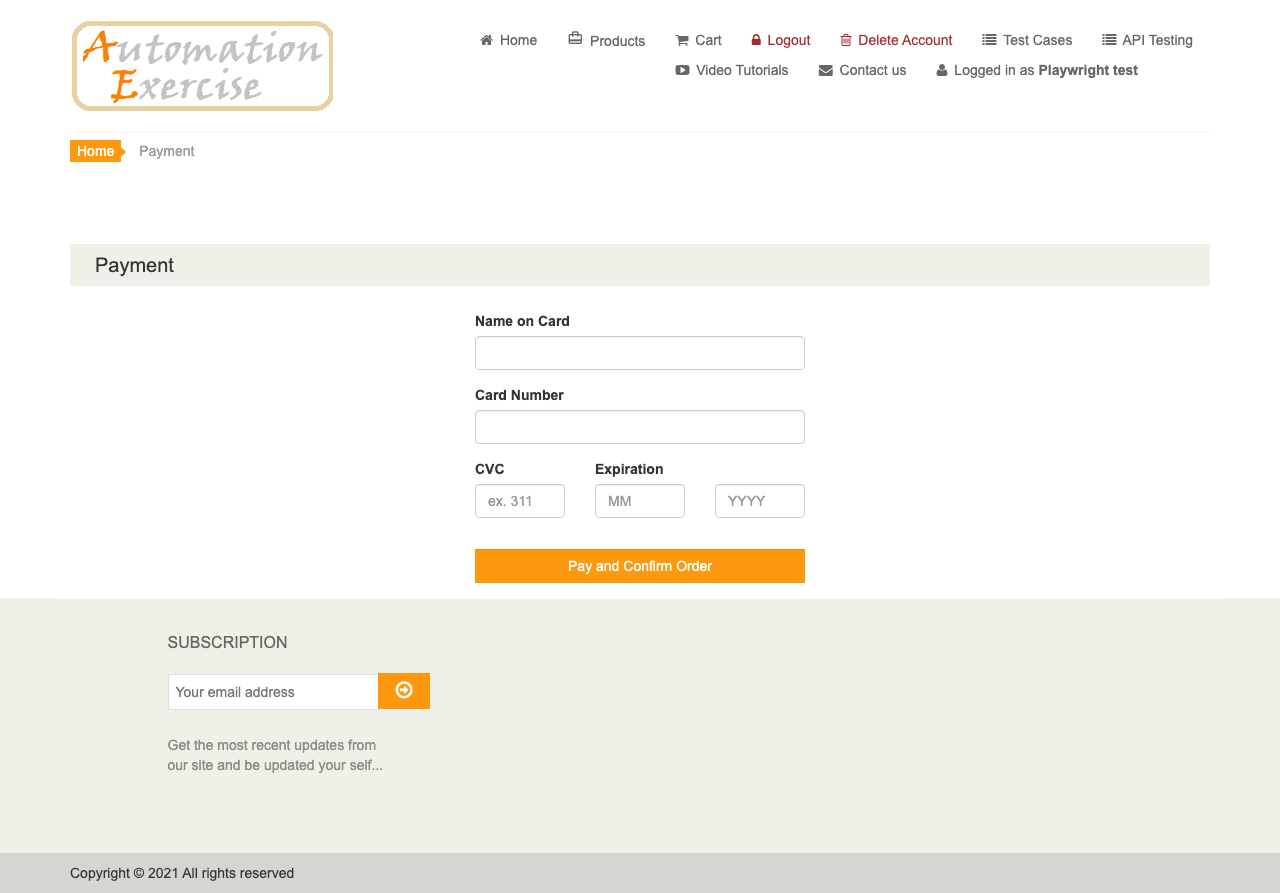
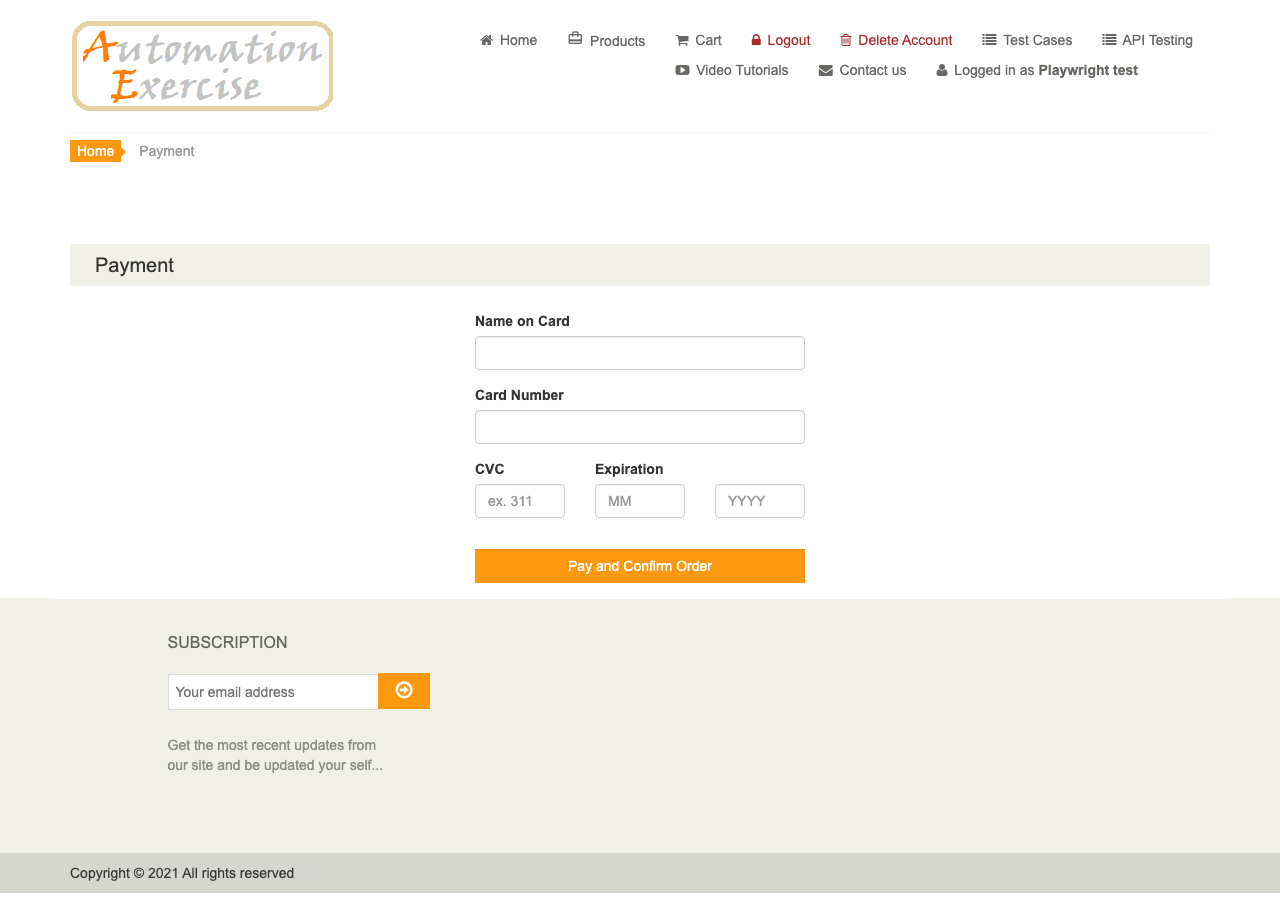
Robust test case

diff --git a/tests/add-to-cart.spec.ts b/tests/add-to-cart.spec.ts
@@ -1,3 +1,4 @@
+import { test, expect } from '@playwright/test';
 /*
  My Approach for this problem statement:
 
@@ -9,45 +10,41 @@
  This helps confirm that the “Add to cart” functionality is working end-to-end.
 */
 
-import { test, expect } from '@playwright/test';
-
 test('Add first product to cart and verify it appears in cart', async ({ page }) => {
-  // Starting off by visiting the homepage
   await page.goto('https://automationexercise.com');
   await page.waitForLoadState('domcontentloaded');
-
-  // Before doing anything, I just want to make sure the products section is actually visible
-  const productsSection = page.locator('.features_items');
-  await expect(productsSection).toBeVisible();
-
-  // Now, from the entire list of products, I’ll pick the very first one
-  const firstProduct = productsSection.locator('.product-image-wrapper').first();
-
-  // Each product card has an "Add to cart" button — let's click on that for our first product
-  const addToCartButton = firstProduct.locator('a:has-text("Add to cart")').first();
-  await addToCartButton.filter({ has: page.locator(':visible') }).click();
-
-  // Once we click the button, a confirmation popup should appear — waiting for it
-  const viewCartButton = page.locator('text=View Cart');
-  await expect(viewCartButton).toBeVisible({ timeout: 5000 });
-
-  // Clicking on “View Cart” to move to the cart page
-  await viewCartButton.click();
-
-  // Now I’ll verify that the page URL has changed to something with 'view_cart' in it
+  
+  // Get ALL products on the page
+  const allProducts = page.locator('.single-products');
+  
+  // Get the FIRST product dynamically
+  const firstProduct = allProducts.first();
+  
+  // Hover over it to reveal the overlay
+  await firstProduct.hover();
+  
+  // Click the "Add to cart" button in the overlay of THIS specific product
+  const addToCartButton = firstProduct.locator('.product-overlay a.add-to-cart');
+  await addToCartButton.click();
+  
+  // Store the product name BEFORE going to cart (for verification later)
+  const productName = await firstProduct.locator('.productinfo p, .overlay-content p').first().innerText();
+  
+  // Handle the modal
+  await page.getByRole('link', { name: /view cart/i }).waitFor({ state: 'visible' });
+  await page.getByRole('link', { name: /view cart/i }).click();
+  
+  // Verify navigation
   await expect(page).toHaveURL(/.*view_cart/);
-
-  // Next, I’ll check if the cart table is visible — that’s where products are listed
-  const cartTable = page.locator('.cart_info');
-  await expect(cartTable).toBeVisible();
-
-  // Looking inside the cart to see if at least one product row is present
-  const cartItems = cartTable.locator('tbody tr');
-  await expect(cartItems.first()).toBeVisible();
-
-  // Just to confirm, I’ll grab the product’s name and log it in the console
-  const itemName = await cartItems.first().locator('.cart_description h4 a').innerText();
-
-  // Lastly, verifying that the product name isn’t empty — a simple sanity check
-  expect(itemName.length).toBeGreaterThan(0);
+  
+  // Verify the product we added is actually in the cart
+  const cartTable = page.locator('.cart_info tbody');
+  const cartItems = cartTable.locator('tr');
+  
+  // Check that cart has at least one item
+  await expect(cartItems).toHaveCount(1, { timeout: 5000 });
+  
+  // Verify the product name matches what we added
+  const cartProductName = await cartItems.first().locator('.cart_description h4 a').innerText();
+  expect(cartProductName).toBe(productName);
 });
